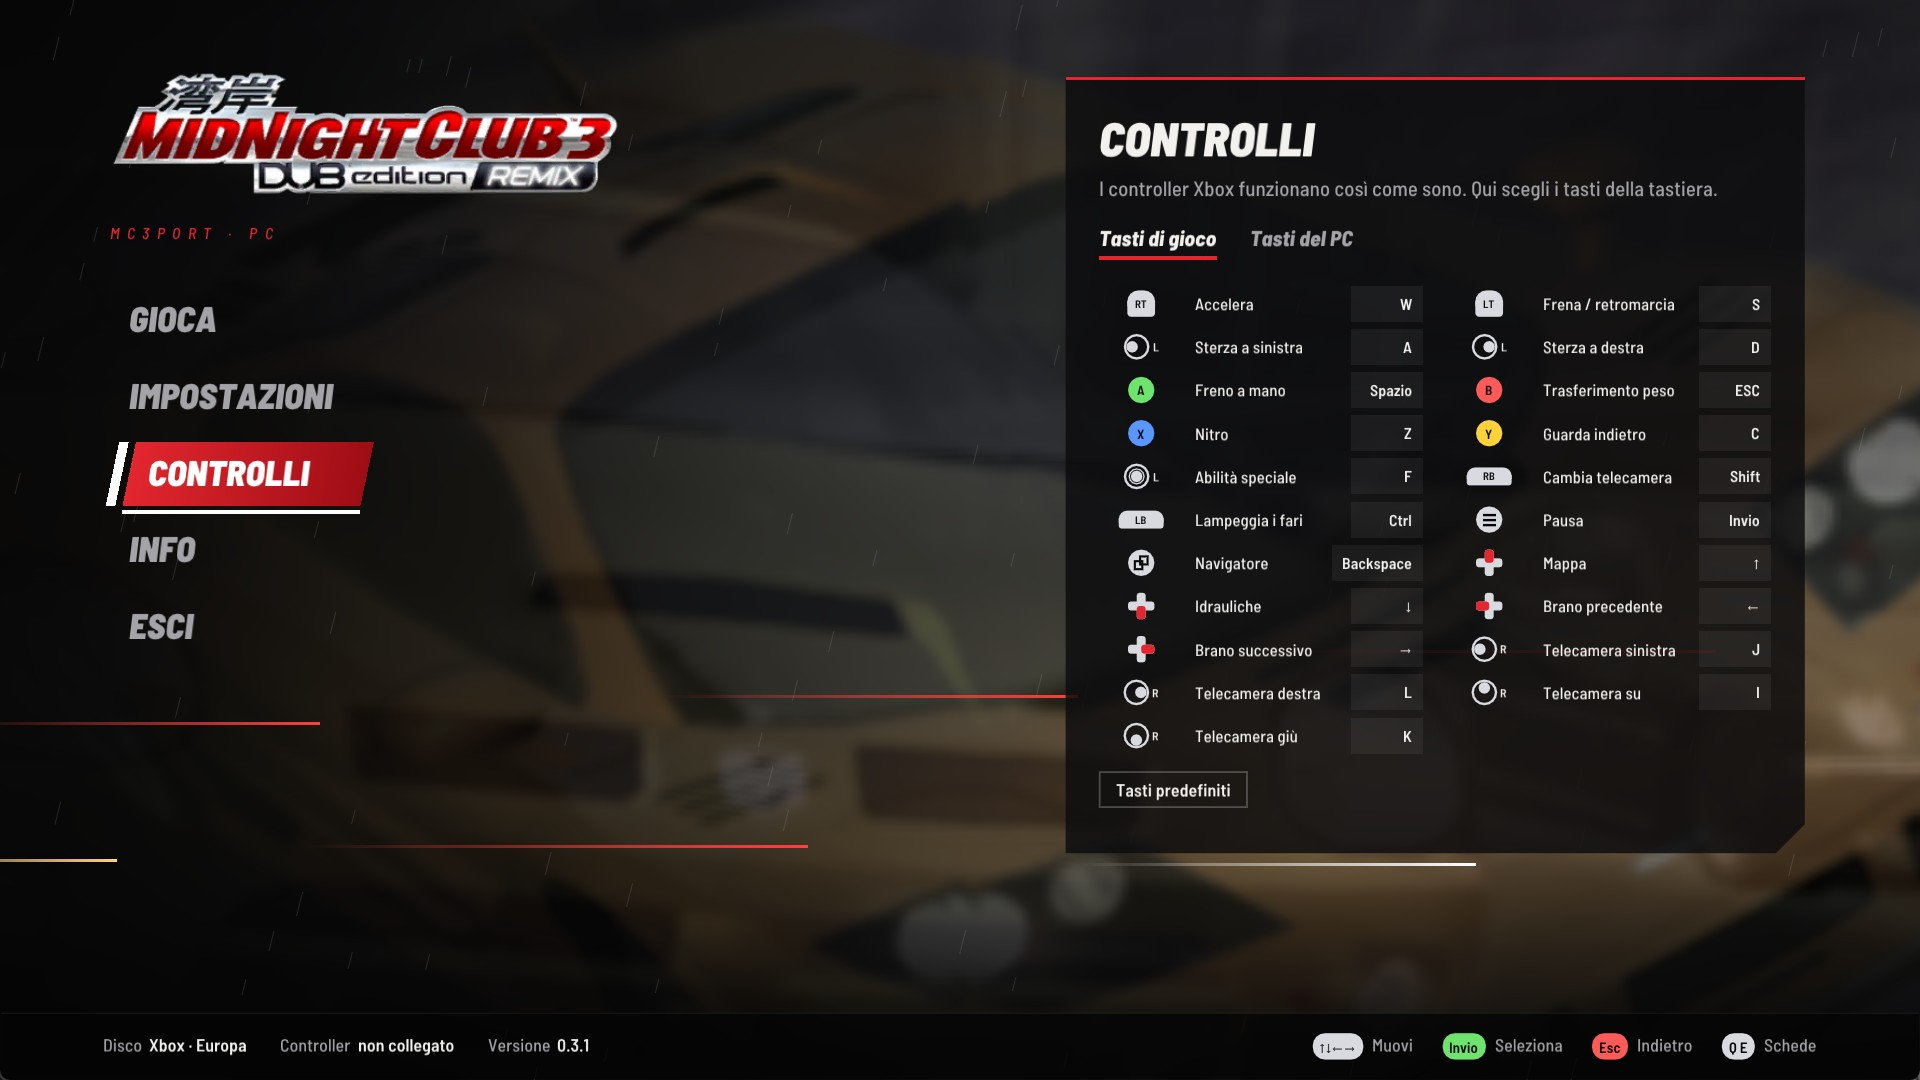
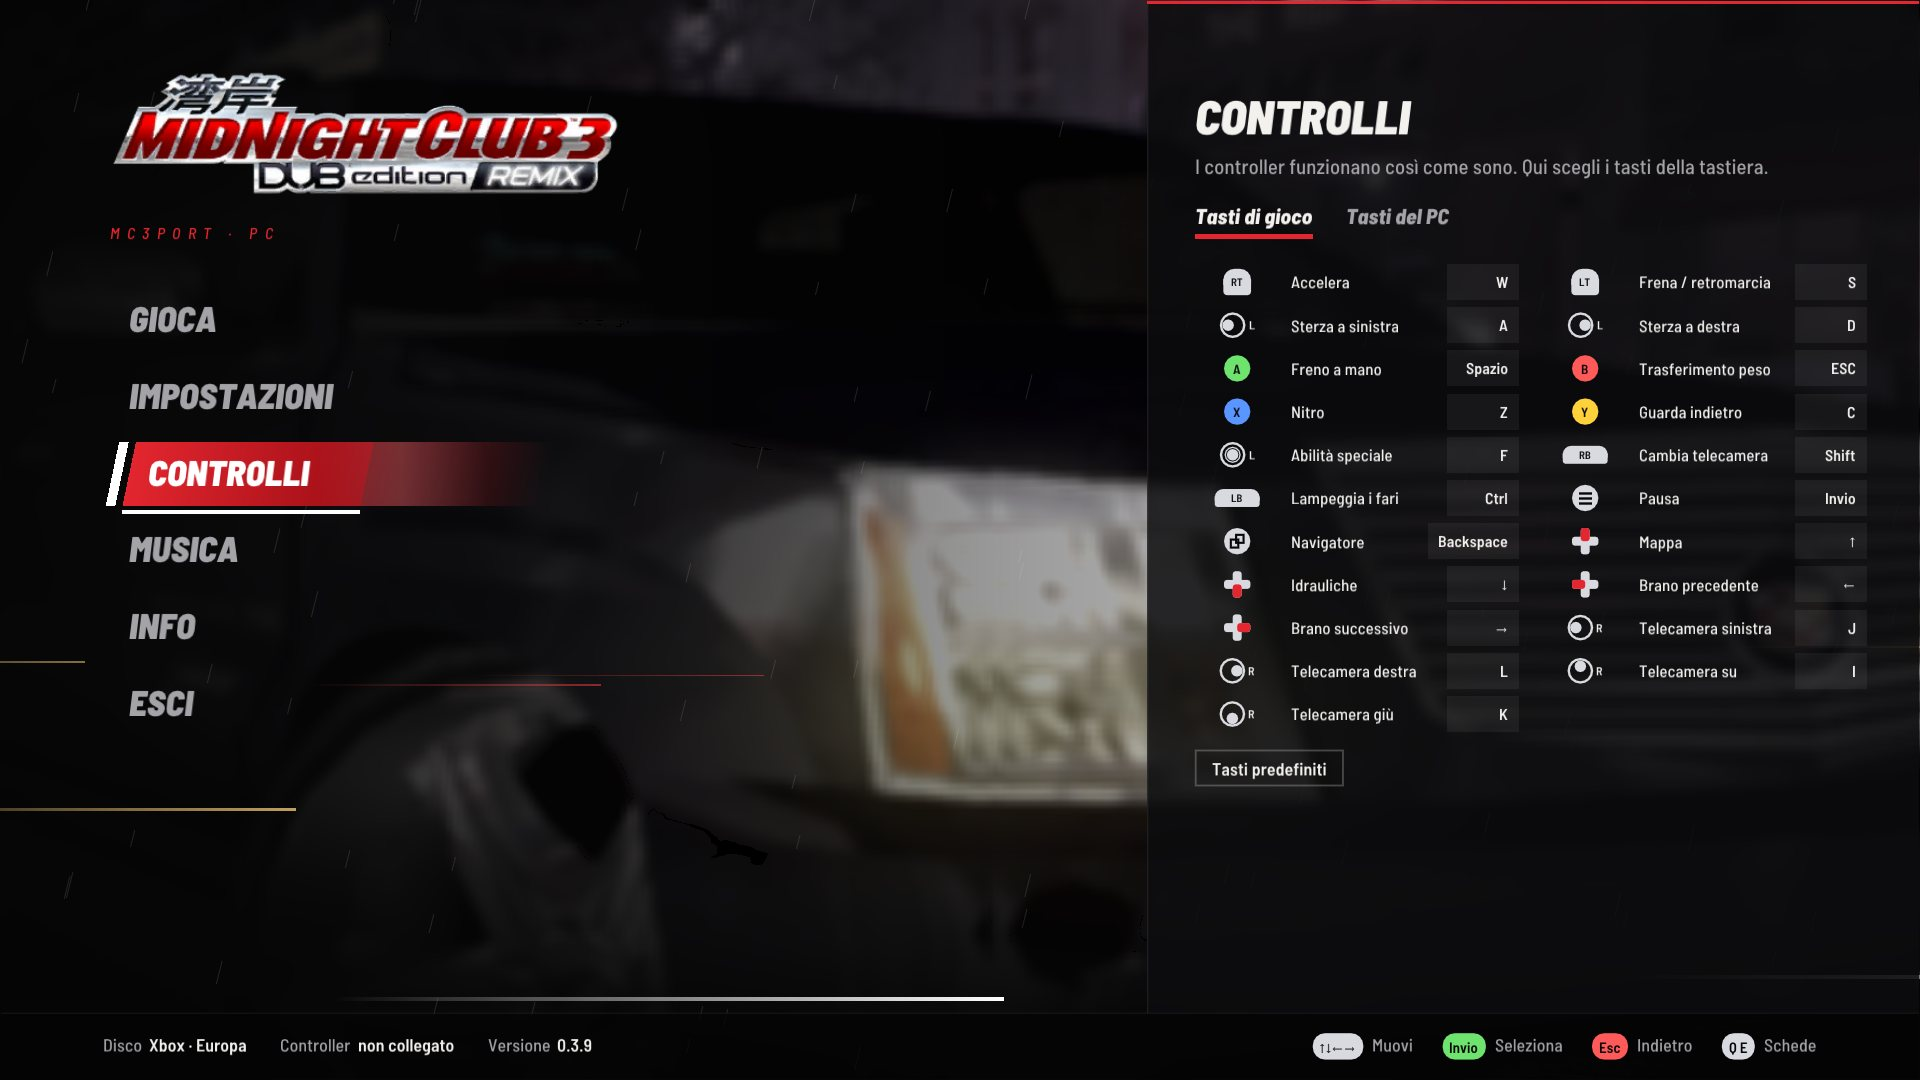
0.3.10 · Launcher: Each page in a column from top to bottom, scrolling when longer
- panel(): the page's column runs from the top of the window to the bottom bar, flush right; a page longer than it scrolls (the mouse wheel over it, a newly selected row brought into sight, the column's colour over the edges with more, a thin bar for where the page is). The Picture tab's last rows were under the bottom bar at 1280x720
- launcher_scale(): by the height, unless the logo, the menu and the column (1230 design px) need less to fit the width; a 4:3 window drew everything at 0.65 instead of about 0.83
- Play at the foot of the column, a light running round it while the game is ready
- value_slider(): the value beside the grab, on the side with more room (the grab covered it in the middle)
- enter_item(): titles, rows and buttons fade in and rise 50 ms after one another
- The menu's selected item trails off to the right, a glint along it every 2.4 s
- README: the launcher's three screenshots retaken

diff --git a/src/pc/launcher_ui.cpp b/src/pc/launcher_ui.cpp
@@ -614,6 +614,11 @@ float ease_out(float t) {
     return 1 - (1 - t) * (1 - t) * (1 - t);
 }
 
+// Everything scales with the window, designed on 1600x900: by its height, unless the logo, the menu and the page's
+// column (1230 design px side by side) need a smaller size to fit its width. Below 0.65 text would be too small to
+// read (very small windows crop).
+float launcher_scale(float width, float height) { return std::max(0.65f, std::min(width / 1230.0f, height / 900.0f)); }
+
 // Any of keys pressed this frame (with key repeat).
 bool key_pressed(std::initializer_list<ImGuiKey> keys) {
     for (const ImGuiKey key : keys) {
@@ -1031,6 +1036,9 @@ private:
     bool slider(const char* id, float* value, float minimum, float maximum, const char* format);
     bool compact_slider(const char* label, const char* id, float* value, float minimum, float maximum, ImVec2 at,
                         float width);
+    // ImGui::SliderFloat with its text hidden and the value drawn beside the grab, on the side with more room, so the
+    // grab never covers it.
+    bool value_slider(const char* id, float* value, float minimum, float maximum, const char* format, float font_size);
     void steps(int current, int total);
 
     void page_play();
@@ -1151,6 +1159,16 @@ private:
     ImDrawList* list_ = nullptr;
     ImVec2 origin_;  // panel content top left
     float panel_width_ = 0, cursor_ = 0, row_extra_ = 0;
+    // The page's column runs from the top to the bottom bar; a longer page scrolls in it (the wheel, or the selection
+    // kept in sight). view_top_/view_bottom_: the part of the screen the page shows.
+    float scroll_ = 0, scroll_target_ = 0, view_top_ = 0, view_bottom_ = 0;
+    Page scroll_page_ = Page::kPlay;
+    int scroll_tab_ = 0;
+    ImGuiID scrolled_to_ = 0;  // the selection last brought into sight
+    // The page's items come in one after another: each title, row and button counts one (enter_item).
+    void enter_item();
+    int item_count_ = 0;
+    float item_shift_ = 0, page_alpha_ = 1;
     std::unordered_map<ImGuiID, float> anims_;
     std::vector<Trail> trails_;
     std::vector<ImVec4> drops_;
@@ -1318,9 +1336,7 @@ void Launcher::resize_if_needed() {
     device_->CreateRenderTargetView(buffer.Get(), nullptr, &target_);
     width_ = width;
     height_ = height;
-    // Everything scales with the window, designed on 1600x900; below 0.65 text would be too small to read (very
-    // small windows crop).
-    scale_ = std::max(0.65f, std::min(width / 1600.0f, height / 900.0f));
+    scale_ = launcher_scale(static_cast<float>(width), static_cast<float>(height));
 }
 
 ComPtr<ID3D11ShaderResourceView> dxt_texture(ID3D11Device* device, const DxtImage& image) {
@@ -1540,11 +1556,13 @@ float Launcher::anim(ImGuiID id, bool on, float speed) {
 }
 
 void Launcher::title(const char* str) {
+    enter_item();
     text(black_, px(48), ImVec2(origin_.x, origin_.y + cursor_), kInk, str);
     cursor_ += px(56);
 }
 
 void Launcher::lead(const char* str) {
+    enter_item();
     const ImVec2 size = measure(body_, px(21), str, panel_width_);
     text(body_, px(21), ImVec2(origin_.x, origin_.y + cursor_), kDim, str, panel_width_);
     cursor_ += size.y + px(20);
@@ -1570,6 +1588,7 @@ bool Launcher::small_button(const char* label, ImVec2 at, const char* id, ImVec2
 
 bool Launcher::status(bool good, const char* heading, const char* detail, const char* button_label, const char* id,
                       bool pulse, const char* second_label, const char* second_id, bool* second_pressed) {
+    enter_item();
     const float height = px(64);
     const ImVec2 a(origin_.x, origin_.y + cursor_), b(origin_.x + panel_width_, a.y + height);
     const ImU32 accent = good ? kGreen : kAmber;
@@ -1600,6 +1619,7 @@ bool Launcher::status(bool good, const char* heading, const char* detail, const 
 }
 
 bool Launcher::big_button(const char* label, const char* id, bool pulse) {
+    enter_item();
     const ImVec2 size = measure(black_, px(40), label);
     const ImVec2 a(origin_.x, origin_.y + cursor_ + px(10)), b(a.x + size.x + px(110), a.y + px(64));
     ImGui::SetCursorScreenPos(a);
@@ -1617,12 +1637,35 @@ bool Launcher::big_button(const char* label, const char* id, bool pulse) {
         }
     }
     skewed_rect(list_, a, b, mix(kRed, IM_COL32(255, 80, 88, 255), hot * 0.6f), mix(kRedDark, kRed, hot * 0.5f));
+    if (pulse) {  // ready: a light runs round the button's edge, a lap every 2.4 s
+        const float skew = (b.y - a.y) * 0.21f;
+        const ImVec2 corners[] = {ImVec2(a.x + skew, a.y), ImVec2(b.x + skew, a.y), b, ImVec2(a.x, b.y)};  // skewed_rect's
+        float lengths[4], perimeter = 0;
+        for (int i = 0; i < 4; ++i) {
+            const float dx = corners[(i + 1) % 4].x - corners[i].x, dy = corners[(i + 1) % 4].y - corners[i].y;
+            perimeter += lengths[i] = std::sqrt(dx * dx + dy * dy);
+        }
+        const float head = std::fmod(static_cast<float>(ImGui::GetTime()) / 2.4f, 1.0f) * perimeter, tail = px(160);
+        constexpr int kSteps = 24;
+        for (int s = 0; s < kSteps; ++s) {  // the tail fades out behind the head
+            float d0 = head - tail * static_cast<float>(s) / kSteps, d1 = head - tail * static_cast<float>(s + 1) / kSteps;
+            const auto point = [&](float d) {
+                d = std::fmod(d + perimeter, perimeter);
+                int i = 0;
+                while (i < 3 && d > lengths[i]) d -= lengths[i++];
+                return ImLerp(corners[i], corners[(i + 1) % 4], d / lengths[i]);
+            };
+            const float light = 1 - static_cast<float>(s) / kSteps;
+            list_->AddLine(point(d0), point(d1), fade(mix(IM_COL32(255, 178, 30, 255), IM_COL32_WHITE, light), light), px(3));
+        }
+    }
     text(black_, px(40), ImVec2(a.x + px(55) + px(7), a.y + px(10)), IM_COL32(255, 255, 255, 255), label);
     cursor_ += px(90);
     return pressed;
 }
 
 bool Launcher::tabs(const char* const* labels, int count, int* current) {
+    enter_item();
     float x = origin_.x;
     bool changed = false;
     for (int i = 0; i < count; ++i) {
@@ -1648,6 +1691,7 @@ bool Launcher::tabs(const char* const* labels, int count, int* current) {
 }
 
 void Launcher::row(const char* heading, const char* detail, bool restart, float control) {
+    enter_item();
     text(body_bold_, px(20), ImVec2(origin_.x, origin_.y + cursor_ + px(4)), kInk, heading);
     const bool next_start = restart && in_game_;
     if (next_start) detail = T().next_start;
@@ -1711,6 +1755,21 @@ bool Launcher::segmented(const char* id, const char* const* labels, int count, i
     return changed;
 }
 
+bool Launcher::value_slider(const char* id, float* value, float minimum, float maximum, const char* format,
+                            float font_size) {
+    ImGui::PushStyleColor(ImGuiCol_Text, IM_COL32(0, 0, 0, 0));
+    const bool changed = ImGui::SliderFloat(id, value, minimum, maximum, format);
+    ImGui::PopStyleColor();
+    char label[32];
+    std::snprintf(label, sizeof(label), format, *value);
+    const ImVec2 a = ImGui::GetItemRectMin(), b = ImGui::GetItemRectMax(), size = measure(body_bold_, font_size, label);
+    const float grab = ImGui::GetStyle().GrabMinSize, t = std::clamp((*value - minimum) / (maximum - minimum), 0.0f, 1.0f);
+    const float centre = a.x + 2 + grab / 2 + t * (b.x - a.x - 4 - grab);  // ImGui's grab, 2 px in from the frame
+    const float x = t < 0.5f ? centre + grab / 2 + px(8) : centre - grab / 2 - px(8) - size.x;
+    text(body_bold_, font_size, ImVec2(x, a.y + (b.y - a.y - size.y) / 2), kInk, label);
+    return changed;
+}
+
 // A slider with its label above it, at `at` and `width` wide, for two columns of values: half the rows of slider().
 // It leaves cursor_ alone; the caller lays the columns out.
 bool Launcher::compact_slider(const char* label, const char* id, float* value, float minimum, float maximum, ImVec2 at,
@@ -1721,7 +1780,7 @@ bool Launcher::compact_slider(const char* label, const char* id, float* value, f
     ImGui::PushFont(body_bold_, px(16));
     ImGui::PushStyleVar(ImGuiStyleVar_FramePadding, ImVec2(px(8), px(3)));
     claim_focus();
-    bool changed = ImGui::SliderFloat(id, value, minimum, maximum, "%.2f");
+    bool changed = value_slider(id, value, minimum, maximum, "%.2f", px(16));
     focus_ring();
     focus_frame(ImVec2(at.x - px(14), at.y - px(3)), ImVec2(at.x + width + px(8), at.y + px(50)));
     changed |= step_slider(value, minimum, maximum);
@@ -1738,7 +1797,7 @@ bool Launcher::slider(const char* id, float* value, float minimum, float maximum
     ImGui::PushFont(body_bold_, px(18));
     ImGui::PushStyleVar(ImGuiStyleVar_FramePadding, ImVec2(px(8), px(5)));
     claim_focus();
-    bool changed = ImGui::SliderFloat(id, value, minimum, maximum, format);
+    bool changed = value_slider(id, value, minimum, maximum, format, px(18));
     focus_ring();
     changed |= step_slider(value, minimum, maximum);
     focus_frame(ImVec2(origin_.x - px(24), origin_.y + cursor_), ImVec2(origin_.x + panel_width_ + px(14), origin_.y + cursor_ + px(46) + row_extra_));
@@ -2040,7 +2099,7 @@ void Launcher::page_play() {
     }
     status(pad_connected_, pad_connected_ ? t.pad_on : t.pad_off, pad_connected_ ? t.pad_on_sub : t.pad_off_sub, nullptr, nullptr);
     style_summary();
-    ImGui::SetCursorScreenPos(ImVec2(origin_.x, origin_.y + cursor_));
+    cursor_ = std::max(cursor_, view_bottom_ - origin_.y - px(130));  // Play at the foot of the column
     if (big_button(t.play, "##play", disc_.has_value())) {
         if (disc_) {
             play_ = done_ = true;
@@ -2075,7 +2134,8 @@ void Launcher::page_settings() {
     if (settings_tab_ != tab_before) tab_since_ = now;
     // The tab's content comes in like a page: fading, from a little to the right.
     const float tab_enter = ease_out((now - tab_since_) / 0.3f);
-    const float panel_alpha = g_alpha, origin_x = origin_.x;
+    const float panel_alpha = page_alpha_, origin_x = origin_.x;
+    page_alpha_ *= tab_enter;
     g_alpha *= tab_enter;
     origin_.x += px(24) * (1 - tab_enter);
     ImGui::PushStyleVar(ImGuiStyleVar_Alpha, g_alpha);
@@ -2159,6 +2219,7 @@ void Launcher::page_settings() {
         for (size_t i = 0; i < std::size(sliders); ++i) {
             const Slider& s = sliders[i];
             if (i > 0 && i % 2 == 0) cursor_ += px(58);
+            if (i % 2 == 0) enter_item();
             const ImVec2 at(origin_.x + static_cast<float>(i % 2) * (column + gap), origin_.y + cursor_ + px(2));
             float value = setting(s.key);
             char id[48];
@@ -2231,7 +2292,7 @@ void Launcher::page_settings() {
         cursor_ += px(48);
     }
     ImGui::PopStyleVar();
-    g_alpha = panel_alpha;
+    g_alpha = page_alpha_ = panel_alpha;
     origin_.x = origin_x;
 }
 
@@ -2740,19 +2801,37 @@ void Launcher::header(float since) {
     }
 }
 
-// The current page in the panel on the right, sliding in.
+// The current page in a column on the right, from the top of the window to the bottom bar, sliding in; a page longer
+// than the column scrolls.
 void Launcher::panel(float now, float since) {
     const float enter = ease_out((now - page_since_) / 0.45f);
-    g_alpha = enter * ease_out((since - 0.3f) / 0.6f);
+    page_alpha_ = g_alpha = enter * ease_out((since - 0.3f) / 0.6f);
     panel_width_ = px(560);
-    const float panel_x = static_cast<float>(width_) - px(96) - panel_width_ - px(56) + px(50) * (1 - enter);
-    origin_ = ImVec2(panel_x + px(28), px(64) + px(26));
+    const float column_width = panel_width_ + px(84);
+    const float panel_x = static_cast<float>(width_) - column_width + px(50) * (1 - enter);
+    const float bar_y = static_cast<float>(height_) - px(56), top = px(72);
+    view_top_ = px(3);
+    view_bottom_ = bar_y;
+    // Another page, tab or guide step starts at its top.
+    const int tab = wizard_ ? 10 + wizard_step_
+                    : page_ == Page::kSettings ? settings_tab_ : page_ == Page::kControls ? controls_tab_
+                    : page_ == Page::kCheats ? cheats_tab_ : 0;
+    if (page_ != scroll_page_ || tab != scroll_tab_) {
+        scroll_page_ = page_;
+        scroll_tab_ = tab;
+        scroll_ = scroll_target_ = 0;
+    }
+    origin_ = ImVec2(panel_x + px(40), top - scroll_);
     cursor_ = 0;
+    item_count_ = 0;
+    item_shift_ = 0;
     list_->ChannelsSplit(2);
     row_marked_ = false;
     // A page with a big button: that one is selected first, not the small ones above it.
     status_keeps_focus_ = wizard_ ? !move_prompt_ && wizard_step_ == 0 : page_ == Page::kPlay;
     list_->ChannelsSetCurrent(1);
+    // Rows scrolled out of the column are neither drawn nor hovered.
+    ImGui::PushClipRect(ImVec2(panel_x, view_top_), ImVec2(panel_x + column_width, view_bottom_), true);
     ImGui::PushStyleVar(ImGuiStyleVar_Alpha, g_alpha);
     if (!update_prompt_shown_ && !wizard_ && !in_game_ && update_available()) {
         update_prompt_ = update_prompt_shown_ = true;
@@ -2780,17 +2859,64 @@ void Launcher::panel(float now, float since) {
         }
     }
     ImGui::PopStyleVar();
-    list_->ChannelsSetCurrent(0);
-    const ImVec2 pa(panel_x, px(64)), pb(panel_x + panel_width_ + px(56), origin_.y + cursor_ + px(16));
-    const float corner = px(24);
-    const ImVec2 shape[] = {pa, ImVec2(pb.x, pa.y), ImVec2(pb.x, pb.y - corner), ImVec2(pb.x - corner, pb.y), ImVec2(pa.x, pb.y)};
-    list_->AddConvexPolyFilled(shape, 5, fade(IM_COL32(12, 12, 14, 214)));
+    origin_.y -= item_shift_;
+    item_shift_ = 0;
+    g_alpha = page_alpha_;
+
+    // Scrolling: the wheel over the column, and a newly selected row brought into sight.
+    const float overflow = std::max(0.0f, top + cursor_ + px(24) - view_bottom_);
+    const ImVec2 mouse = ImGui::GetIO().MousePos;
+    if (mouse.x >= panel_x && mouse.y < view_bottom_ && !ImGui::IsPopupOpen("", ImGuiPopupFlags_AnyPopupId)) {
+        scroll_target_ -= ImGui::GetIO().MouseWheel * px(90);
+    }
+    const ImGuiID nav_id = ImGui::GetCurrentContext()->NavId;
+    if (row_marked_ && nav_id != scrolled_to_) {
+        scrolled_to_ = nav_id;
+        if (row_b_.y > view_bottom_ - px(24)) scroll_target_ = scroll_ + row_b_.y - (view_bottom_ - px(24));
+        if (row_a_.y < top) {
+            scroll_target_ = scroll_ - (top - row_a_.y);
+            if (scroll_target_ < top) scroll_target_ = 0;  // near the top: the whole top, title included
+        }
+    }
+    scroll_target_ = std::clamp(scroll_target_, 0.0f, overflow);
+    scroll_ += (scroll_target_ - scroll_) * std::min(1.0f, ImGui::GetIO().DeltaTime * 14);
+    if (std::fabs(scroll_target_ - scroll_) < 0.5f) scroll_ = scroll_target_;
+    // More above or below: the column's colour over the edge, and a thin bar for where the page is.
+    if (overflow > 0) {
+        const ImU32 shade = fade(IM_COL32(12, 12, 14, 240)), clear = fade(IM_COL32(12, 12, 14, 0));
+        const float edge = px(48), right = panel_x + column_width;
+        if (scroll_ > 1) list_->AddRectFilledMultiColor(ImVec2(panel_x, view_top_), ImVec2(right, view_top_ + edge), shade, shade, clear, clear);
+        if (scroll_ < overflow - 1) list_->AddRectFilledMultiColor(ImVec2(panel_x, view_bottom_ - edge), ImVec2(right, view_bottom_), clear, clear, shade, shade);
+        const float track_a = top, track_b = view_bottom_ - px(16), track = track_b - track_a;
+        const float thumb = track * (view_bottom_ - top) / (view_bottom_ - top + overflow);
+        const float thumb_y = track_a + (track - thumb) * (scroll_ / overflow);
+        list_->AddRectFilled(ImVec2(right - px(14), track_a), ImVec2(right - px(11), track_b), fade(IM_COL32(255, 255, 255, 20)));
+        list_->AddRectFilled(ImVec2(right - px(14), thumb_y), ImVec2(right - px(11), thumb_y + thumb), fade(kRed));
+    }
+    ImGui::PopClipRect();
+
+    list_->ChannelsSetCurrent(0);  // under the page's widgets
+    const ImVec2 pa(panel_x, 0), pb(panel_x + column_width, bar_y);
+    list_->AddRectFilled(pa, pb, fade(IM_COL32(12, 12, 14, 214)));
+    list_->AddLine(pa, ImVec2(pa.x, pb.y), fade(IM_COL32(255, 255, 255, 20)), px(1));
     list_->AddRectFilled(pa, ImVec2(pb.x, pa.y + px(3)), fade(kRed));
     if (row_marked_) {
+        list_->PushClipRect(ImVec2(panel_x, view_top_), ImVec2(pb.x, view_bottom_), true);
         list_->AddRectFilled(row_a_, row_b_, fade(IM_COL32(255, 255, 255, 28)));
         skewed_rect(list_, row_a_, ImVec2(row_a_.x + px(7), row_b_.y), fade(IM_COL32_WHITE), fade(IM_COL32_WHITE));
+        list_->PopClipRect();
     }
     list_->ChannelsMerge();
+}
+
+// One more title, row or button of the page: it fades in and rises a little, 50 ms after the one above.
+void Launcher::enter_item() {
+    const float delay = 0.05f * static_cast<float>(std::min(item_count_++, 10));
+    const float t = ease_out((static_cast<float>(ImGui::GetTime()) - page_since_ - 0.1f - delay) / 0.35f);
+    origin_.y -= item_shift_;
+    item_shift_ = px(14) * (1 - t);
+    origin_.y += item_shift_;
+    g_alpha = page_alpha_ * t;
 }
 
 // Keys acting on the whole launcher, after the frame's widgets.
@@ -2936,6 +3062,15 @@ void Launcher::side_menu(float now, float since, const char* const* labels, cons
             skewed_rect(list_, ImVec2(a.x - px(14) + shift, a.y), ImVec2(a.x - px(6) + shift, b.y),
                         fade(IM_COL32_WHITE, on * (0.25f + 0.75f * lit)), fade(IM_COL32_WHITE, on * (0.25f + 0.75f * lit)));
             if (lit > 0.01f) list_->AddRectFilled(ImVec2(a.x + shift, b.y + px(3)), ImVec2(b.x, b.y + px(6)), fade(IM_COL32_WHITE, lit));
+            // Like a car's lights: the bar trails off to the right, and a glint runs along it every 2.4 s.
+            skewed_rect(list_, ImVec2(b.x, a.y), ImVec2(b.x + px(150) * on, b.y), fade(kRed, 0.5f * on), fade(kRed, 0));
+            const float run = ease_out(std::fmod(now / 2.4f, 1.0f) / 0.6f), glint = px(70);
+            const float x = a.x + shift - glint + (b.x + px(150) - a.x - shift + glint) * run;
+            const ImU32 clear = fade(IM_COL32_WHITE, 0), light = fade(IM_COL32_WHITE, 0.4f * on * (1 - run));
+            list_->PushClipRect(ImVec2(a.x + shift, a.y), ImVec2(b.x + px(150) * on, b.y), true);
+            list_->AddRectFilledMultiColor(ImVec2(x - glint, a.y), ImVec2(x, b.y), clear, light, light, clear);
+            list_->AddRectFilledMultiColor(ImVec2(x, a.y), ImVec2(x + glint, b.y), light, clear, clear, light);
+            list_->PopClipRect();
         }
         text(black_, px(36), ImVec2(a.x + px(22) + shift, a.y + px(7)), mix(hovered ? kInk : kDim, IM_COL32_WHITE, on), labels[i]);
         if (targets[i] == Page::kAbout && update_available()) {  // a newer version: a dot after the label
@@ -3832,7 +3967,7 @@ void Launcher::overlay(ID3D11Device* device, ID3D11DeviceContext* context, ID3D1
 
     width_ = width;
     height_ = height;
-    scale_ = std::max(0.65f, std::min(width / 1600.0f, height / 900.0f));
+    scale_ = launcher_scale(static_cast<float>(width), static_cast<float>(height));
     upload_art();
     {
         std::lock_guard<std::recursive_mutex> lock(g_ui_mutex);

diff --git a/CHANGELOG.md b/CHANGELOG.md
@@ -22,6 +22,13 @@
 
 ### Improved
 
+- **The launcher's new layout**, in the in-game menu too: each page sits in a column from the top of the window to the
+  bottom bar, with Play at its foot. A page longer than the window scrolls (the mouse wheel, or the selection kept in
+  sight with the keys and the controller): the Picture tab's last rows were hidden under the bottom bar on a 720p
+  window. In a 4:3 or smaller window everything is larger than before (it was sized for 16:9 and shrank). A slider's
+  value now sits beside its grab instead of under it, the rows of a page come in one after another, a light runs round
+  Play when the game is ready and along the menu's selected item.
+
 - **Fewer pauses the first time you reach a place**: the shaders a scene needs the first time are made on two helper
   threads instead of in the middle of a frame; a frame waits for them at most 8 ms, and what is still missing is
   drawn a frame or two later. Entering the city with no shaders made yet ran at about 42 fps instead of 32 in tests.
